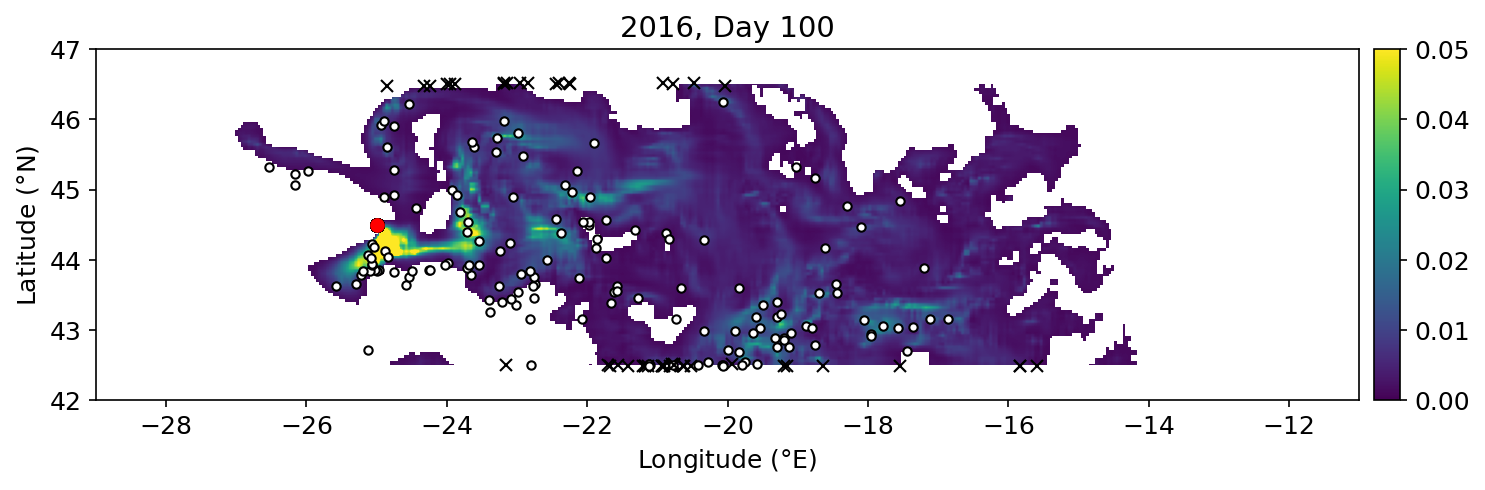
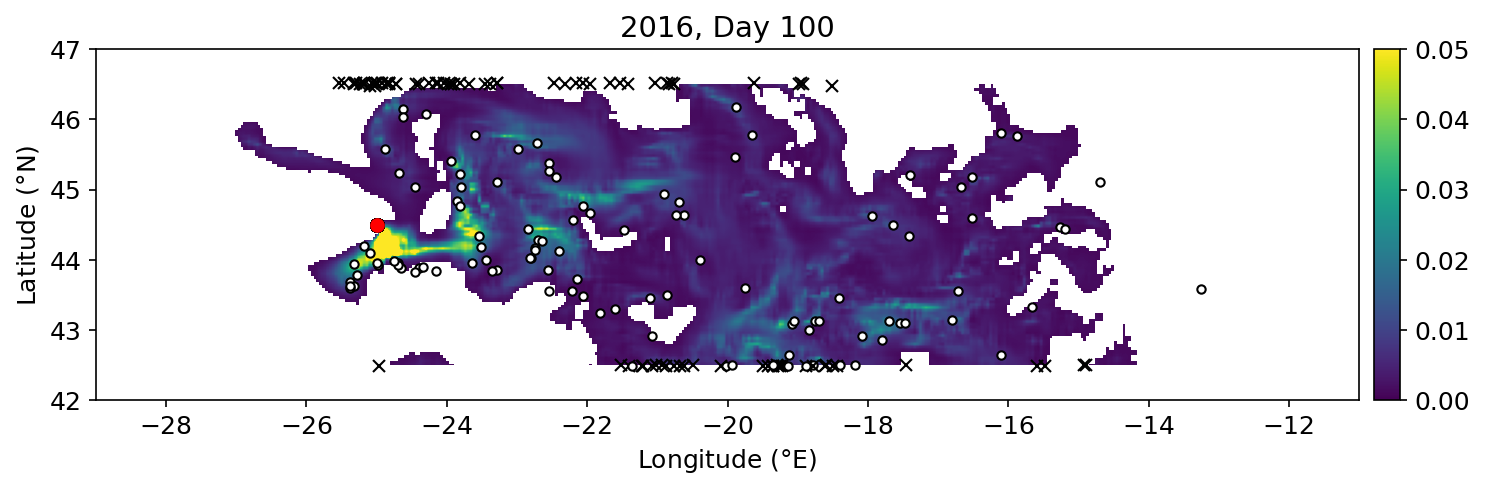
update files with corrected parameters

diff --git a/library/agents.py b/library/agents.py
@@ -52,22 +52,20 @@ class Walker:
         '''This function is responsible for handling the end-decision of where a turtle moves. 
         
         It relies on the local Flow Speed, and the local and global probabilities of movement.
-        I use Viktoria's proposal for the determination of the flow speed, so that we still
+        I use Viktoria's proposal for the linear combination flow speed, so that we still
         acquire valid probabilities (SUM=1), and are able to factor in the weight of the vector field.
-        
-        TODO: Study how the parameter localFlowSpeed should be chosen for 'correct' performance. Currently =1 does not sound any mental alarms.
         '''
-        # Correction factor for the localFlowSpeed, because of unit conversions. Currently unused (=1)
-        #flowSpeedMultiplier = 86.4/3
-        flowSpeedMultiplier = 86.4/3
-        walkerMultiplier = 3
+        flowSpeedMultiplier = 0.864
+        walkerMultiplier = 2/100
+        alpha = flowSpeedMultiplier/walkerMultiplier
         
-        normalization = walkerMultiplier + flowSpeedMultiplier*np.sum(self.localFlow)
+        #normalization = walkerMultiplier + flowSpeedMultiplier*np.sum(self.localFlow)
+        normalization = 1 + alpha*np.sum(self.localFlow)
         
         # The self.localFlow is a lrud vector of the flow components. There are two zeros, in the direction where the flow points away from.
-        weightedProbs = np.divide(walkerMultiplier*self.initProbs+flowSpeedMultiplier*self.localFlow, normalization)
+        weightedProbs = np.divide(1*self.initProbs+alpha*self.localFlow, 1*normalization)
         weightedCumProbs = np.cumsum(weightedProbs)
-        self.probdistance += 1/normalization
+        self.probdistance += 1/(normalization)
         
         # This function chooses a direction based on the probabilities. The outer makes it respect the specified grid size.
         direction = self.directionToStep(chooseDirection(weightedCumProbs)) #This is a coordinate, unit direction.

diff --git a/plotting/plot_video_fine.py b/plotting/plot_video_fine.py
@@ -151,12 +151,15 @@ def update(frame):
 print("Starting combined animation...")
 ani = animation.FuncAnimation(fig, update, frames=max_steps, interval=1000 / fps, blit=True)
 writer = FFMpegWriter(fps=fps)
+print(mode)
 if mode == 'both':
     ani.save(f'videos/combined/{output_filename}', writer=writer)
+    print("Animation saved:", output_filename)
 if mode == 'rw':
     ani.save(f'videos/rw/{output_filename}', writer=writer)
+    print("Animation saved:", output_filename)
 if mode == 'pde':
     ani.save(f'videos/pde/{output_filename}', writer=writer)
+    print("Animation saved:", output_filename)
 
 plt.close()
-print("Animation saved:", output_filename)

diff --git a/plotting/find_p_values.py b/plotting/find_p_values.py
@@ -18,7 +18,7 @@ import numpy as np
 import matplotlib.pyplot as plt
 from scipy.stats import binomtest, chi2
 
-year=2018
+year=2023
 exceedsTop, exceedsBottom = load_data('discrete', f'{year}', f'{500}', f'{5}perday', 'exceedTopBottom')
 print(f'{year} Survival Ratio: ', exceedsBottom / (exceedsTop+exceedsBottom))
 

diff --git a/plotting/plotProbsAgainstTime.py b/plotting/plotProbsAgainstTime.py
@@ -1,7 +1,7 @@
 import matplotlib.pyplot as plt
 
 xs = [2016, 2018, 2019, 2020, 2021, 2022, 2023]
-ys = [0.8023, 0.8071, 0.6921, 0.8311, 0.8619, 0.8668, 0.6306]
+ys = [0.5501, 0.5557, 0.4718, 0.5817, 0.6111, 0.6269, 0.3996]
 
 plt.figure()
 plt.ylim(0, 1)
